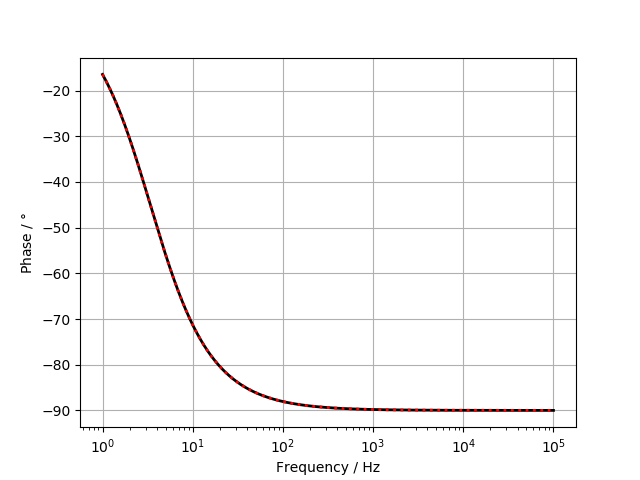
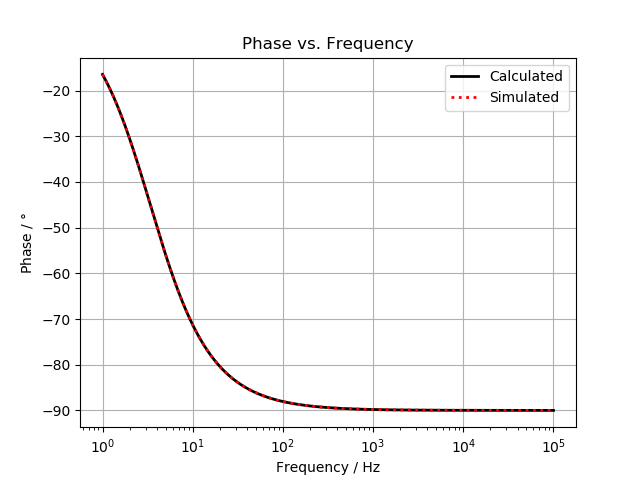
Added title and legends to both plots

Changed region(s): [[0.6875, 0.125, 0.875, 0.2188], [0.375, 0.0625, 0.6562, 0.125]]

diff --git a/demos/demo.py b/demos/demo.py
@@ -28,6 +28,7 @@ if __name__ == '__main__':
 	plt.plot(freq, mag, color = 'red', linestyle=':', linewidth=2, label='Simulated')
 	plt.ylabel('Gain / dB')
 	plt.xlabel('Frequency / Hz')
+	plt.title('Magnitude vs. Frequency')
 	plt.legend()
 	plt.grid()
 	plt.savefig("magnitude.png")
@@ -39,6 +40,8 @@ if __name__ == '__main__':
 	plt.plot(freq, deg, color = 'red', linestyle=':', linewidth=2, label='Simulated')
 	plt.ylabel('Phase / $\degree$')
 	plt.xlabel('Frequency / Hz')
+	plt.title('Phase vs. Frequency')
+	plt.legend()
 	plt.grid()
 	plt.savefig("phase.png")
 	# plt.show()
